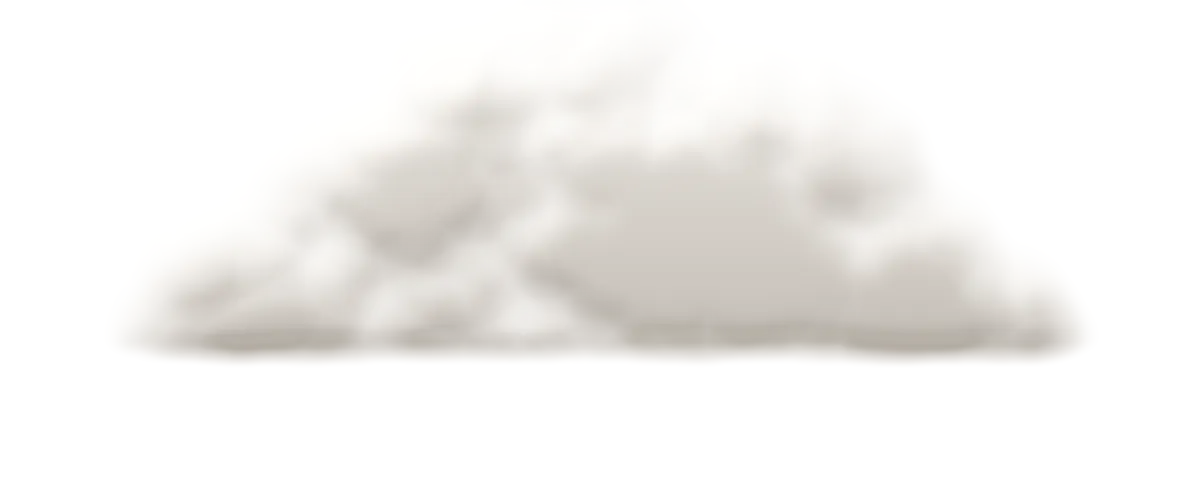
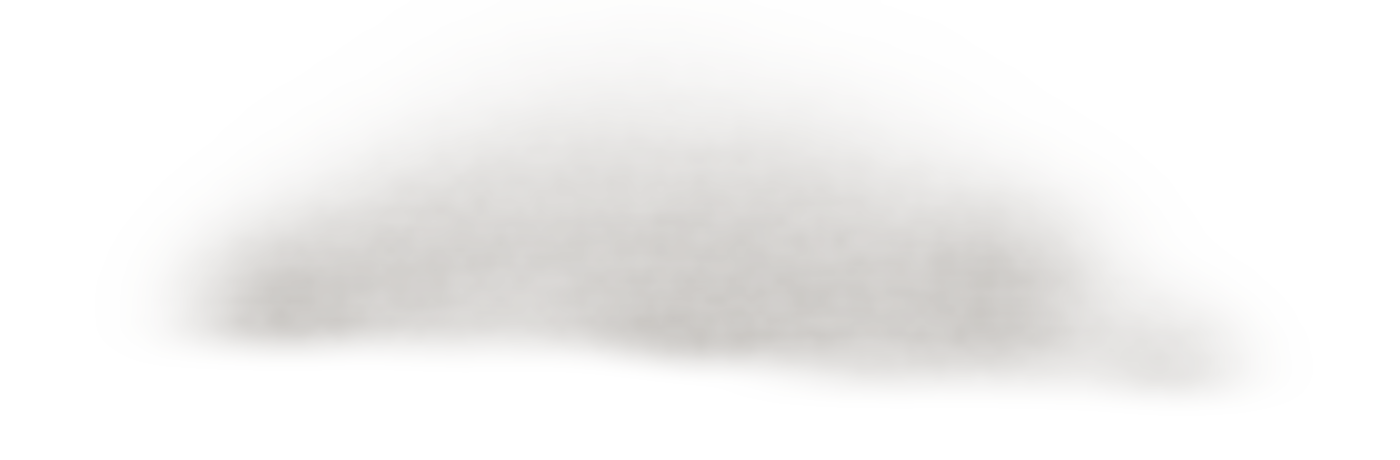
feat: the clouds cross the landing as ink washes, in the manner of the persimmon
The photographic cumulus sat oddly beside a wash painting and read as one
compact lump. brand/clouds.py now paints three cloud banks the way a wash
sits on paper: one tint with the tone in the transparency, ink gathering
toward a wet underside while the crown thins into the paper, a sideways
bleed, a hint of dry brush, paper grain. No lighting model. Paper gets
diluted warm ink, dark ground the same wash as pale ivory, and a bank
crossing the sun or moon veils it like mist.

diff --git a/site/style.css b/site/style.css
@@ -75,13 +75,13 @@ main, .footer { max-width: var(--column); margin-inline: auto; }
 .landing-page { position: relative; isolation: isolate; }
 .landing-art { position: absolute; top: 0; left: 0; width: 100%; height: 904px; object-fit: cover; object-position: center bottom; mix-blend-mode: multiply; opacity: .74; z-index: -3; pointer-events: none; mask-image: linear-gradient(black 88%, transparent); }
 :root:not([data-theme="light"]) .landing-art { filter: invert(1) hue-rotate(180deg); mix-blend-mode: screen; opacity: .4; }
-/* Three rendered clouds drift in front of the sun or moon and veil them as they pass. brand/clouds.py draws them,
-   moonlit grey for dark ground and sun-lit white for paper, each lit from the upper left, so none is mirrored. */
+/* Three ink-wash cloud banks drift in front of the sun or moon and veil them as they pass. brand/clouds.py draws them,
+   diluted ink for paper and pale ivory for dark ground, one tint with the tone in the transparency. */
 .landing-clouds { position: absolute; top: 0; left: 0; width: 100%; height: 420px; overflow: hidden; z-index: -1; pointer-events: none; }
 .cloud { position: absolute; right: 100%; background: center / 100% 100% no-repeat; animation: cloud-drift 150s linear infinite; }
-.cloud:nth-child(1) { top: 36px; width: clamp(300px, 42vw, 660px); aspect-ratio: 5 / 2; background-image: url("img/cloud-1.webp"); animation-delay: -46s; }
-.cloud:nth-child(2) { top: 116px; width: clamp(220px, 30vw, 460px); aspect-ratio: 45 / 23; background-image: url("img/cloud-2.webp"); animation-duration: 190s; animation-delay: -132s; }
-.cloud:nth-child(3) { top: 150px; width: clamp(320px, 48vw, 780px); aspect-ratio: 35 / 9; background-image: url("img/cloud-3.webp"); animation-duration: 120s; animation-delay: -84s; }
+.cloud:nth-child(1) { top: 20px; width: clamp(300px, 40vw, 660px); aspect-ratio: 70 / 23; background-image: url("img/cloud-1.webp"); animation-delay: -46s; }
+.cloud:nth-child(2) { top: 96px; width: clamp(220px, 28vw, 460px); aspect-ratio: 50 / 21; background-image: url("img/cloud-2.webp"); animation-duration: 190s; animation-delay: -132s; }
+.cloud:nth-child(3) { top: 150px; width: clamp(320px, 46vw, 760px); aspect-ratio: 5 / 1; background-image: url("img/cloud-3.webp"); animation-duration: 120s; animation-delay: -84s; }
 [data-theme="light"] .cloud:nth-child(1) { background-image: url("img/cloud-1-light.webp"); }
 [data-theme="light"] .cloud:nth-child(2) { background-image: url("img/cloud-2-light.webp"); }
 [data-theme="light"] .cloud:nth-child(3) { background-image: url("img/cloud-3-light.webp"); }

diff --git a/brand/clouds.py b/brand/clouds.py
@@ -1,16 +1,18 @@
-"""Render the landing's clouds.
+"""Render the landing's clouds as ink washes.
 
-Six transparent WebP images in ``site/img``: three cloud shapes, each drawn twice, once for
-dark ground (``cloud-N.webp``, moonlit grey) and once for paper (``cloud-N-light.webp``,
-sun-lit white). The drawing is procedural, so this file is the generation record; run it
-again to reproduce the assets::
+Six transparent WebP images in ``site/img``: three cloud banks, each drawn twice, once for
+paper (``cloud-N-light.webp``, diluted ink) and once for dark ground (``cloud-N.webp``, pale
+ivory). The drawing is procedural, so this file is the generation record; run it again to
+reproduce the assets::
 
     python brand/clouds.py
 
-It needs numpy, scipy, and Pillow, which the product itself does not use. A cloud is a soft
-union of round puffs, cut into billows by inverted Worley noise and fractal noise, then lit
-from the upper left by treating the smoothed density as a height field. It is decoration on
-the landing page, not a weather model.
+It needs numpy, scipy, and Pillow, which the product itself does not use. Each bank is a
+soft union of round lobes with a flat, wet underside, painted the way a wash sits on paper:
+one tint, with the tone carried by transparency; ink gathering toward the underside while
+the crown thins into the paper; pigment pooling where the wet edge stopped; a sideways
+bleed; a hint of dry brush; paper grain. No lighting model, no volume. Decoration for the
+landing page in the manner of its persimmon wash, not a weather picture.
 """
 
 from __future__ import annotations
@@ -19,84 +21,56 @@ from pathlib import Path
 
 import numpy as np
 from PIL import Image
-from scipy.ndimage import gaussian_filter, map_coordinates
+from scipy.ndimage import gaussian_filter, map_coordinates, zoom
 
 OUT = Path(__file__).resolve().parents[1] / "site" / "img"
-LIGHT_DIRECTION = np.array([-0.30, -0.80, 0.52])
 
-# Sun-lit white with warm grey undersides, thin edges glowing where light passes through.
-DAY = {
-    "light": (255, 253, 249),
-    "shadow": (146, 137, 126),
-    "ambient": 0.42,
-    "gain": 0.68,
-    "texture": 0.45,
-    "core": (0.40, 0.72),
-    "fringe": (0.18, 0.48),
-    "glow": 0.45,
-    "occlusion": 0.45,
-}
-# Moonlit grey: denser and calmer, so the dark sky does not show through as mottling.
-NIGHT = {
-    "light": (214, 206, 192),
-    "shadow": (66, 60, 54),
-    "ambient": 0.46,
-    "gain": 0.62,
-    "texture": 0.30,
-    "core": (0.34, 0.66),
-    "fringe": (0.16, 0.44),
-    "glow": 0.25,
-    "occlusion": 0.40,
-}
+# Diluted warm ink on paper, and the same wash as pale ivory on dark ground.
+DAY = {"tint": (108, 100, 92), "max_alpha": 0.46}
+NIGHT = {"tint": (236, 228, 214), "max_alpha": 0.48}
 
-# name: (width, height), puffs as (x, y, radius), baseline y of the flat underside, noise seed
+# name: (width, height), noise seed, banks as (weight, lobes as (x, y, radius), baseline y of the underside)
 CLOUDS = {
     "cloud-1": (
-        (1200, 480),
+        (1400, 460),
+        5,
         [
-            (600, 190, 230),
-            (420, 250, 180),
-            (790, 240, 175),
-            (300, 300, 130),
-            (920, 300, 120),
-            (520, 300, 170),
-            (700, 290, 160),
-            (200, 340, 90),
-            (1010, 345, 80),
+            (
+                1.0,
+                [(420, 250, 150), (600, 190, 200), (800, 215, 180), (980, 270, 130), (280, 300, 110), (700, 300, 160)],
+                360,
+            ),
+            (0.55, [(1000, 330, 120), (1160, 350, 90), (860, 360, 100)], 400),
         ],
-        372,
-        1,
     ),
     "cloud-2": (
-        (900, 460),
+        (1000, 420),
+        9,
         [
-            (450, 170, 200),
-            (300, 250, 150),
-            (600, 240, 160),
-            (200, 320, 100),
-            (700, 320, 95),
-            (450, 300, 170),
-            (560, 330, 120),
+            (1.0, [(300, 220, 130), (480, 160, 170), (660, 210, 150), (200, 300, 90), (500, 290, 150)], 340),
+            (0.5, [(700, 310, 110), (820, 330, 80)], 380),
         ],
-        366,
-        7,
     ),
     "cloud-3": (
-        (1400, 360),
+        (1700, 340),
+        13,
         [
-            (700, 150, 190),
-            (450, 190, 150),
-            (950, 180, 160),
-            (250, 230, 110),
-            (1150, 230, 110),
-            (600, 220, 150),
-            (820, 230, 140),
-            (130, 270, 70),
-            (1290, 265, 70),
-            (1000, 250, 100),
+            (
+                1.0,
+                [
+                    (300, 190, 110),
+                    (520, 150, 140),
+                    (760, 170, 130),
+                    (1000, 140, 150),
+                    (1250, 180, 120),
+                    (1450, 220, 90),
+                    (640, 230, 120),
+                    (1120, 230, 110),
+                ],
+                280,
+            ),
+            (0.45, [(180, 250, 70), (420, 260, 90), (1350, 270, 80), (1550, 280, 60)], 310),
         ],
-        292,
-        11,
     ),
 }
 
@@ -137,75 +111,64 @@ def fbm(h: int, w: int, cells: float, octaves: int, rng: np.random.Generator) ->
     return total / weight
 
 
-def worley(h: int, w: int, cells: int, rng: np.random.Generator) -> np.ndarray:
-    """Distance to the nearest jittered lattice point, 0 at the point and 1 a cell away: inverted, round puffs."""
-    size = w / cells
-    grid_y, grid_x = int(np.ceil(h / size)) + 3, cells + 3
-    grid = np.mgrid[0:grid_y, 0:grid_x].transpose(1, 2, 0).astype(float)
-    points = (grid + rng.random((grid_y, grid_x, 2))) * size - size
-    yy, xx = np.mgrid[0:h, 0:w].astype(float)
-    cell_y = ((yy + size) // size).astype(int)
-    cell_x = ((xx + size) // size).astype(int)
-    nearest = np.full((h, w), np.inf)
-    for dy in (-1, 0, 1):
-        for dx in (-1, 0, 1):
-            iy = np.clip(cell_y + dy, 0, grid_y - 1)
-            ix = np.clip(cell_x + dx, 0, grid_x - 1)
-            nearest = np.minimum(nearest, np.hypot(yy - points[iy, ix, 0], xx - points[iy, ix, 1]))
-    return np.clip(nearest / size, 0, 1)
+def bank(w: int, h: int, rng: np.random.Generator, lobes, base_y: float) -> tuple[np.ndarray, np.ndarray]:
+    """A lobed bank with a flat underside, its outline nudged by slow noise so no lobe is a clean circle.
 
-
-def lit(thickness: np.ndarray, relief: float) -> np.ndarray:
-    """Diffuse light on the thickness map read as a height field."""
-    gy, gx = np.gradient(thickness)
-    normal = np.dstack([-gx * relief, -gy * relief, np.ones_like(thickness)])
-    normal /= np.linalg.norm(normal, axis=2, keepdims=True)
-    return np.clip(normal @ (LIGHT_DIRECTION / np.linalg.norm(LIGHT_DIRECTION)), 0, 1)
-
-
-def render(size, puffs, baseline, seed, *, light, shadow, ambient, gain, texture, core, fringe, glow, occlusion):
-    w, h = size
-    rng = np.random.default_rng(seed)
+    Returns the bank's coverage and, separately, how close each pixel sits to a lobe's heart.
+    """
     yy, xx = np.mgrid[0:h, 0:w].astype(float)
     field = np.zeros((h, w))
-    for cx, cy, r in puffs:
-        field += np.exp(-1.5 * (((xx - cx) / r) ** 2 + ((yy - cy) / (r * 0.85)) ** 2))
-    body = (1 - np.exp(-1.3 * field)) * smoothstep(baseline + 12, baseline - 34, yy)
-
-    # Billows and texture are sampled through a gentle domain warp so nothing sits on a grid.
-    warp = 0.05 * w
+    for cx, cy, r in lobes:
+        field += np.exp(-1.6 * (((xx - cx) / r) ** 2 + ((yy - cy) / (r * 0.8)) ** 2))
+    body = (1 - np.exp(-1.4 * field)) * smoothstep(base_y + 16, base_y - 40, yy)
+    warp = 0.03 * w
     coords = [
-        np.clip(yy + (fbm(h, w, 2, 3, rng) - 0.5) * warp, 0, h - 1),
-        np.clip(xx + (fbm(h, w, 2, 3, rng) - 0.5) * warp, 0, w - 1),
+        np.clip(yy + (fbm(h, w, 3, 3, rng) - 0.5) * warp, 0, h - 1),
+        np.clip(xx + (fbm(h, w, 3, 3, rng) - 0.5) * warp, 0, w - 1),
     ]
-    cells = max(3, round(w / 240))
-    billow = sum(weight * (1 - worley(h, w, cells * scale, rng)) for weight, scale in ((0.55, 1), (0.30, 2), (0.15, 4)))
-    billow = map_coordinates(billow, coords, order=1, mode="nearest")
-    grain = map_coordinates(fbm(h, w, 4, 5, rng), coords, order=1, mode="nearest")
-    fine = fbm(h, w, 16, 3, rng)
-    density = body * (0.25 + 0.95 * billow) * (1 - texture / 2 + texture * grain) + 0.14 * (fine - 0.5)
-    alpha = 0.5 * smoothstep(*fringe, density) + 0.5 * smoothstep(*core, density)
-    alpha = gaussian_filter(np.clip(alpha, 0, 1), 0.8)
+    return (
+        map_coordinates(body, coords, order=1, mode="nearest"),
+        map_coordinates(np.clip(field, 0, 1.2) / 1.2, coords, order=1, mode="nearest"),
+    )
 
-    coarse = gaussian_filter(alpha, 12)
-    diffuse = 0.62 * lit(coarse, 120) + 0.38 * lit(gaussian_filter(alpha, 4), 32)
-    rows = np.where(alpha.max(axis=1) > 0.05)[0]
-    top = rows.min() if rows.size else 0
-    depth = np.clip((yy - top) / max(1.0, baseline - top), 0, 1)
-    shade = (ambient + gain * diffuse) * (1 - occlusion * depth**1.4 * coarse / max(coarse.max(), 1e-6))
-    shade = np.clip(shade, 0, 1)
-    shade += (1 - shade) * glow * (1 - alpha)
 
-    light, shadow = np.array(light, float), np.array(shadow, float)
-    rgb = shadow + (light - shadow) * shade[..., None]
+def render(size, seed, banks, *, tint, max_alpha) -> Image.Image:
+    w, h = size
+    rng = np.random.default_rng(seed)
+    yy = np.mgrid[0:h, 0:w][0].astype(float)
+    wash = np.zeros((h, w))
+    hearts = np.zeros((h, w))
+    for weight, lobes, base_y in banks:
+        body, heart = bank(w, h, rng, lobes, base_y)
+        wash = 1 - (1 - wash) * (1 - weight * body)
+        hearts = np.maximum(hearts, heart * weight)
+    rows = np.where(wash.max(axis=1) > 0.05)[0]
+    top, base = (rows.min(), rows.max()) if rows.size else (0, h - 1)
+
+    # Ink gathers toward the underside while the crown thins; each lobe keeps a slightly denser heart.
+    gradation = 0.32 + 0.68 * smoothstep(top, base, yy) ** 1.1
+    density = wash * gradation * (0.78 + 0.32 * hearts) * (0.72 + 0.56 * fbm(h, w, 2, 3, rng))
+    # Pigment pools where the wet wash stopped along the underside.
+    gy = np.gradient(gaussian_filter(wash, 3), axis=0)
+    density += gaussian_filter(np.clip(-gy, 0, None), 2) * 9 * wash
+    # The wash bleeds sideways; a little of the crisp edge survives.
+    density = 0.62 * gaussian_filter(density, sigma=(4, 7)) + 0.38 * density
+    # A hint of dry brush along the body, then paper grain.
+    streak = zoom(fbm(h, max(8, w // 10), 10, 3, rng), (1, 10), order=1)[:, :w]
+    streak = np.pad(streak, ((0, 0), (0, w - streak.shape[1])), mode="edge")
+    density *= 0.94 + 0.12 * streak
+    density *= 0.92 + 0.16 * fbm(h, w, 70, 2, rng)
+
+    alpha = np.clip(density, 0, 1) * max_alpha
+    rgb = np.broadcast_to(np.array(tint, float), (h, w, 3))
     return Image.fromarray(np.dstack([rgb, alpha * 255]).clip(0, 255).astype(np.uint8), "RGBA")
 
 
 def main() -> None:
-    for name, (size, puffs, baseline, seed) in CLOUDS.items():
+    for name, (size, seed, banks) in CLOUDS.items():
         for suffix, palette in (("", NIGHT), ("-light", DAY)):
             path = OUT / f"{name}{suffix}.webp"
-            render(size, puffs, baseline, seed, **palette).save(path, quality=80, method=6)
+            render(size, seed, banks, **palette).save(path, quality=80, method=6)
             print(f"{path.relative_to(OUT.parents[1])}  {path.stat().st_size // 1024} KB")
 
 

diff --git a/tests/test_brand.py b/tests/test_brand.py
@@ -128,7 +128,7 @@ def test_landing_clouds_are_rendered_images_for_each_ground():
     # The paper ground gets its own rendering, in the -light naming the other assets use.
     light = re.findall(r'\[data-theme="light"\][^{}]*\{[^{}]*?url\("(img/cloud-[^"]+\.webp)"\)', css)
     assert {image for image in images if image.endswith("-light.webp")} == set(light)
-    # A sun-lit cloud must not be mirrored: its light would come from the wrong side.
+    # The wash carries its own direction and tone; CSS does not mirror it.
     assert "scale: -1 1" not in css
 
 

diff --git a/brand/README.md b/brand/README.md
@@ -98,13 +98,16 @@ A soft ivory halo makes the moon luminous on dark ground. Use the generated
 transparent assets; do not replace them with drawn icons. Only the current body
 is loaded.
 
-Three rendered clouds drift slowly across the sky in front of the sun or moon
-and veil them as they pass. `brand/clouds.py` draws them procedurally: sun-lit
-white with grey undersides for paper, moonlit grey for dark ground, each lit
-from the upper left. Run it to regenerate the six transparent WebP files. The
-layer is hidden from assistive technology and keeps to the sky band above the
-headline, behind the header and the text. Do not
-mirror or recolour a cloud in CSS; its light would come from the wrong side.
+Three ink-wash cloud banks drift slowly across the sky in front of the sun or
+moon and veil them as they pass, the way mist crosses a moon in a wash painting.
+`brand/clouds.py` draws them procedurally in the manner of the persimmon wash:
+one tint with the tone in the transparency, ink gathering toward a wet underside
+while the crown thins into the paper, a sideways bleed, a hint of dry brush, and
+paper grain. Paper gets diluted warm ink; dark ground gets the same wash as pale
+ivory. Run it to regenerate the six transparent WebP files. The layer is hidden
+from assistive technology and keeps to the sky band above the headline, behind
+the header and the text. Do not recolour or sharpen a bank in CSS; the tone is
+the drawing.
 
 Update each minute while visible. Resume from the current time after sleep or
 browser-history restoration. Reduced motion disables transitions and holds the
@@ -142,7 +145,7 @@ clear wherever the corresponding feature is explained.
 | `site/img/favicon.svg`, `apple-touch-icon.png` | Reversed persimmon symbol on dark ground |
 | `site/img/persimmon-wash.webp` | Decorative landing illustration, generated from the approved page concept |
 | `site/img/sun.png`, `moon.png` | ChatGPT Image-generated transparent sun and moon; original alpha and resolution preserved |
-| `site/img/cloud-1.webp` … `cloud-3-light.webp` | Rendered clouds for dark ground and paper; regenerate with `brand/clouds.py` |
+| `site/img/cloud-1.webp` … `cloud-3-light.webp` | Ink-wash cloud banks for dark ground and paper; regenerate with `brand/clouds.py` |
 | `site/img/task.png`, `task-light.png`, `board.png` | Actual board with scripted, cost-free work |
 | `site/social.html`, `site/img/social.png` | Source and 1280×640 share image |
 

diff --git a/docs/branding.md b/docs/branding.md
@@ -164,10 +164,11 @@ ChatGPT Image로 만든 [선택 시안](assets/branding/logo-persimmon-concept.p
 06–18시가 밝은 화면이므로 해가, 나머지 시간에는 달이 뜬다. Light·Dark를 직접 고르면
 시각과 상관없이 그 화면의 해나 달을 보여 준다. 어느 쪽이든 호는 시각을 따라
 왼쪽에서 떠서 정오·자정에 가운데 가장 높은 곳을 지나 오른쪽으로 내려간다.
-하늘에는 구름 세 덩이가 해와 달 앞을 천천히 흘러가며, 지나갈 때 해와 달을 가린다.
-구름은 [brand/clouds.py](../brand/clouds.py)가 노이즈로 렌더링한 반투명 이미지다. 밝은 화면용은
-햇빛을 받은 흰 구름, 어두운 화면용은 달빛의 회색 구름이며 모두 왼쪽 위에서 빛을 받으므로
-CSS로 뒤집거나 색을 바꾸지 않는다.
+하늘에는 수묵 담채의 구름 띠 세 개가 해와 달 앞을 천천히 흘러가며, 지나갈 때 안개처럼
+해와 달을 가린다. 구름은 [brand/clouds.py](../brand/clouds.py)가 감나무 담채와 같은 방식으로
+렌더링한 반투명 이미지다. 한 가지 먹색에 농담은 투명도로 두고, 아랫면으로 먹이 모이며
+윗부분은 종이 속으로 옅어진다. 밝은 화면에는 묽은 먹을, 어두운 화면에는 같은 번짐을 옅은
+아이보리로 쓴다. CSS로 색을 바꾸거나 선명하게 하지 않는다.
 밤에는 달 주변으로 옅은 아이보리 빛이 퍼지고, 표면의 질감은 선명하게 유지한다.
 실제 일출·일몰이나 달의 위상을 계산하는 기능은 아니다. 위치 권한이나 외부 요청 없이
 분마다 갱신하고, 숨긴 탭은 갱신을 멈췄다가 돌아오면 현재 시각을 다시 읽는다.
